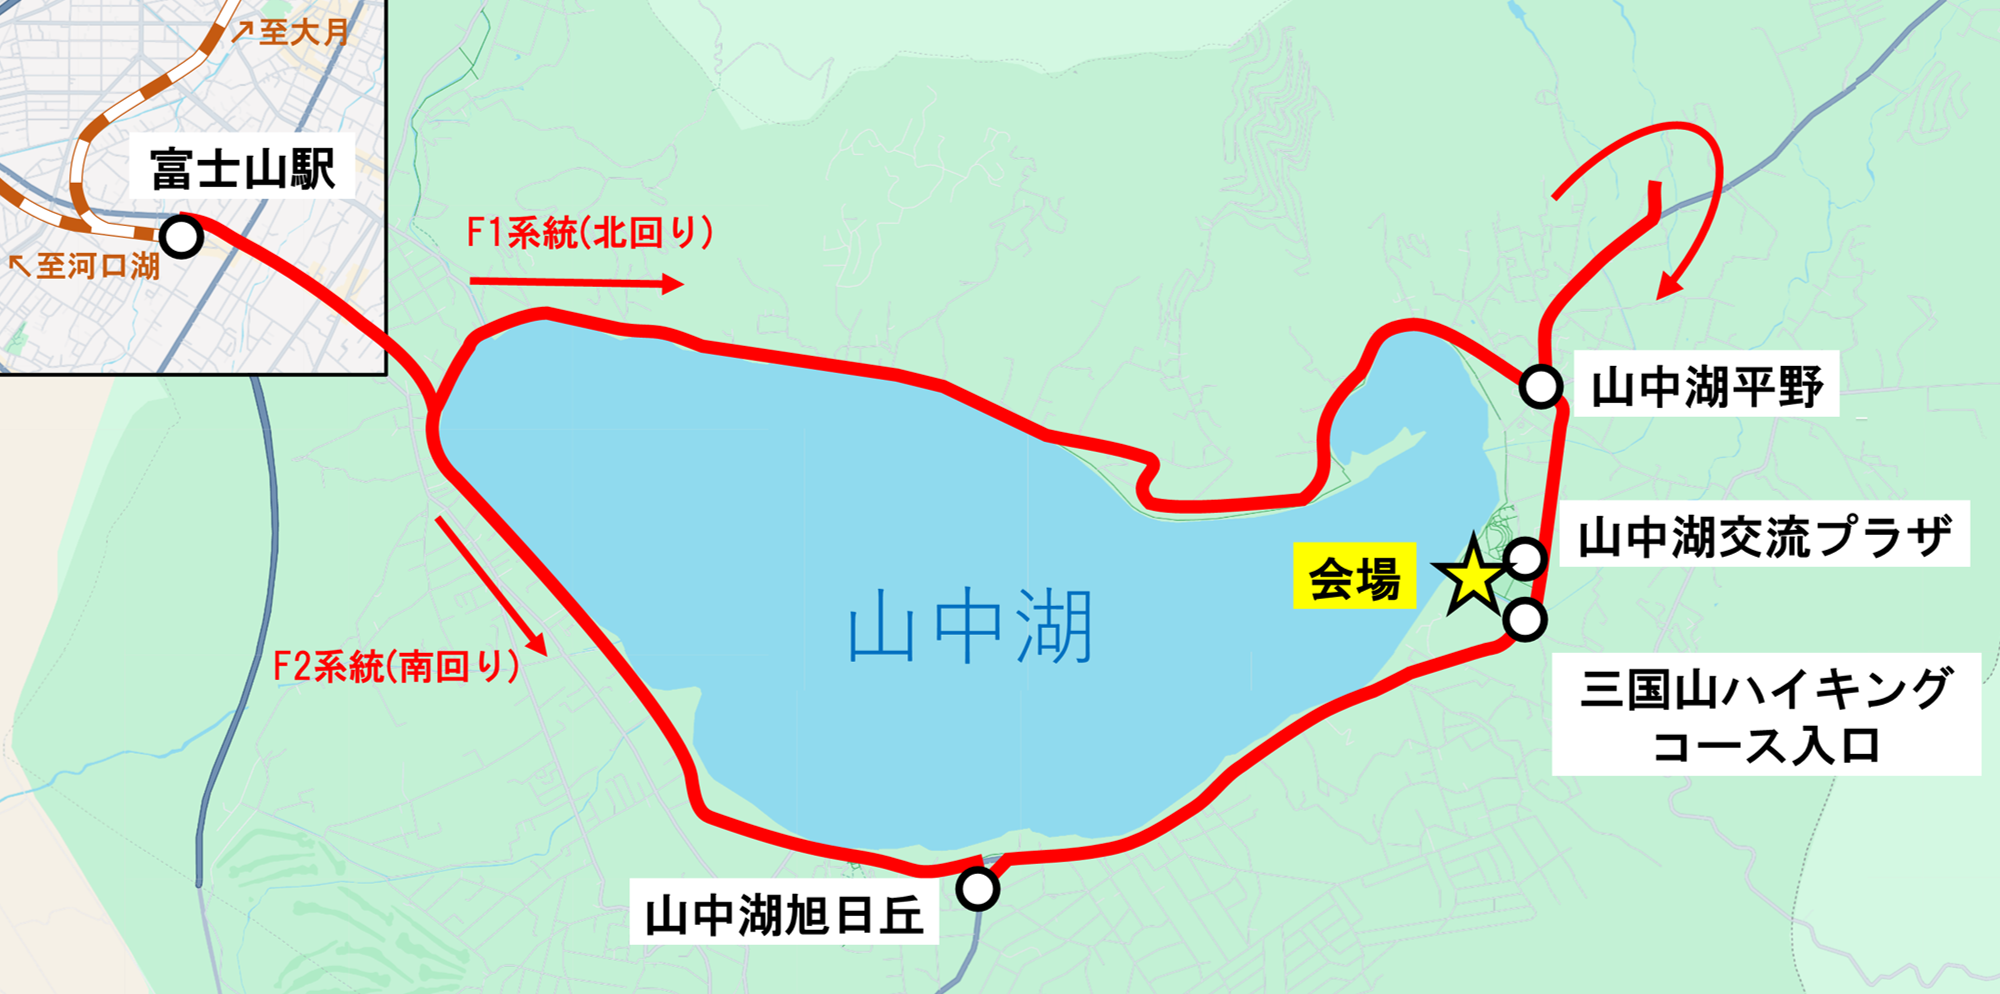
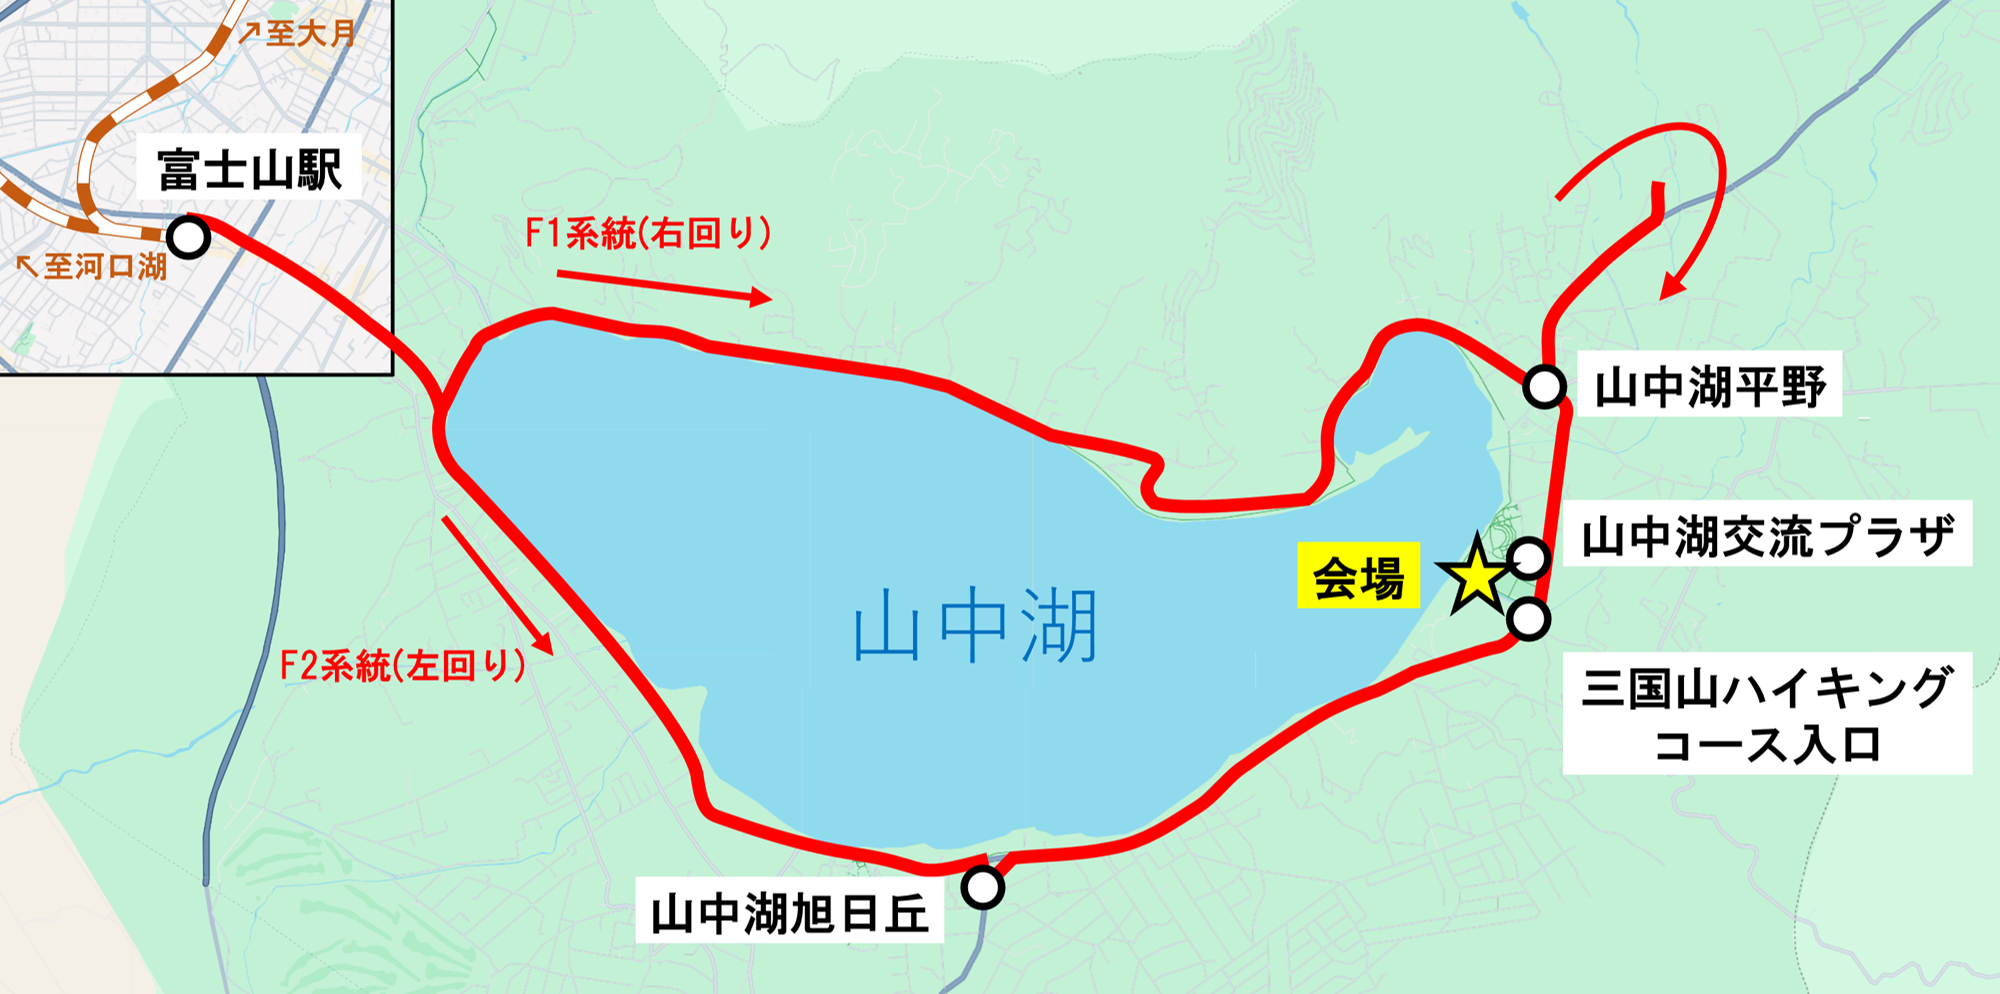
update

diff --git a/index.html b/index.html
@@ -897,10 +897,10 @@
                         <tr>
                             <th>（帰り）</th>
                             <th>運賃(IC可)</th>
-                            <th>(F1)河口湖行</th>
                             <th>(F2)河口湖行</th>
                             <th>(F1)河口湖行</th>
                             <th>(F2)河口湖行</th>
+                            <th>(F1)河口湖行</th>
                         </tr>
                     </thead>
                     <tbody>
@@ -965,7 +965,7 @@
                     </tbody>
                 </table>
                 <div class="callout">
-                    <p>（行き）F1(北回り)の場合は山中湖平野で降りて徒歩が早い<br>（帰り）山中湖交流プラザでバスを逃しても山中湖平野まで歩けば間に合う場合あり</p>
+                    <p>（行き）F1(右回り)の場合は山中湖平野で降りて徒歩が早い<br>（帰り）山中湖交流プラザでバスを逃しても山中湖平野まで歩けば間に合う場合あり</p>
                 </div>
             </section>
             <section id="bus-fujisan-kirara">
@@ -1057,10 +1057,10 @@
                         <tr>
                             <th>（帰り）</th>
                             <th>運賃(IC可)</th>
-                            <th>(F1)河口湖行</th>
                             <th>(F2)河口湖行</th>
                             <th>(F1)河口湖行</th>
                             <th>(F2)河口湖行</th>
+                            <th>(F1)河口湖行</th>
                             <th>(A2)河口湖行</th>
                         </tr>
                     </thead>
@@ -1142,7 +1142,7 @@
                     </tbody>
                 </table>
                 <div class="callout">
-                    <p>（行き）F1(北回り)の場合は山中湖平野で降りて徒歩が早い<br>（帰り）山中湖交流プラザでバスを逃しても山中湖平野まで歩けば間に合う場合あり<br>（帰り）終演時間次第で山中湖旭日丘まで歩けば<strong>1日目終演後でも山中湖から脱出可能</strong>(新宿にも帰れる)<br>(2024年は18:50終演)</p>
+                    <p>（行き）F1(右回り)の場合は山中湖平野で降りて徒歩が早い<br>（帰り）山中湖交流プラザでバスを逃しても山中湖平野まで歩けば間に合う場合あり<br>（帰り）終演時間次第で山中湖旭日丘まで歩けば<strong>1日目終演後でも山中湖から脱出可能</strong>(新宿にも帰れる)<br>(2024年は18:50終演)</p>
                 </div>
             </section>
         </section>
